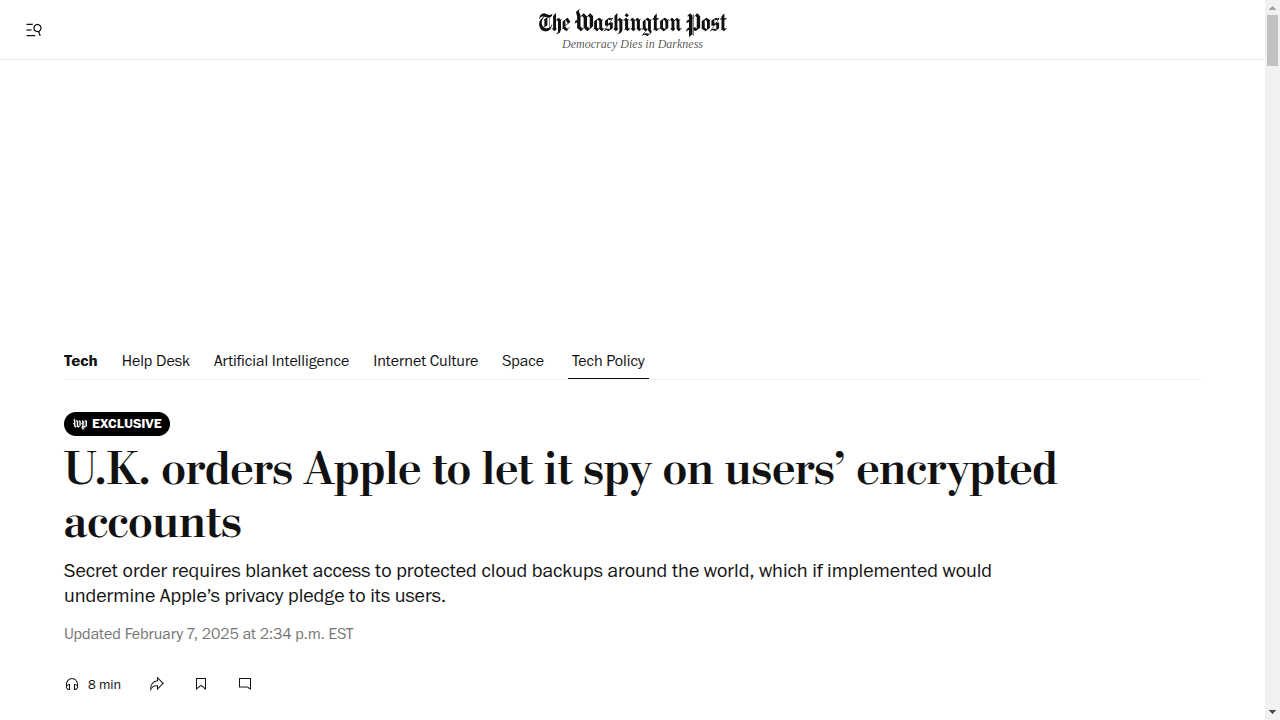
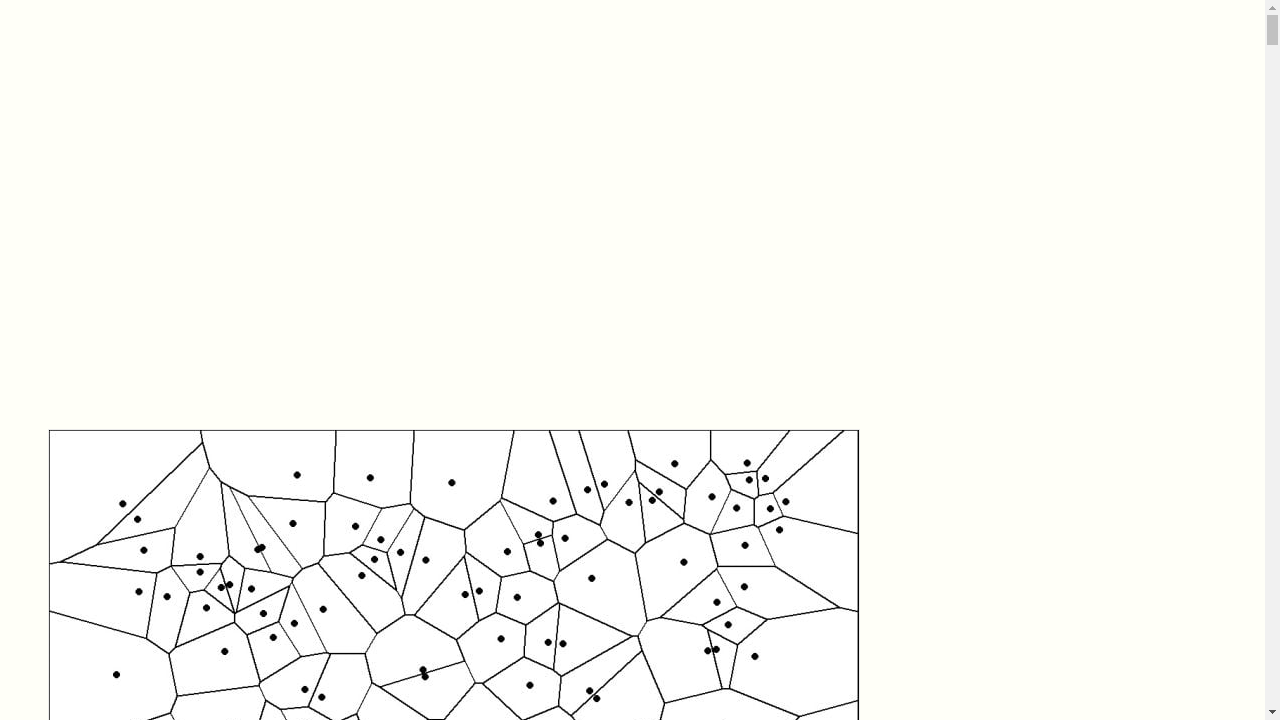
misc

diff --git a/src/mark.ts b/src/mark.ts
@@ -1,4 +1,6 @@
 import type { Page } from "playwright";
+import type { ElementHandle } from "playwright";
+
 export async function marker(page: Page) {
   // Find all potentially clickable elements
   const clickableElements = await page.$$(
@@ -15,7 +17,7 @@ export async function marker(page: Page) {
   );
 
   // Create a Map to store elements with their indices
-  const elementMap = new Map();
+  const elementMap: Map<number, ElementHandle> = new Map();
 
   // Assign index and color to each element
   for (let i = 0; i < clickableElements.length; i++) {
@@ -33,6 +35,10 @@ export async function marker(page: Page) {
         el.style.position = "relative";
       }
 
+      // Add padding to the element
+      el.style.padding = "12px";
+      el.style.margin = "24px";
+
       const overlay = document.createElement("div");
       overlay.style.position = "absolute";
       overlay.style.top = "0";
@@ -42,17 +48,20 @@ export async function marker(page: Page) {
       overlay.style.backgroundColor = randomColor;
       overlay.style.opacity = "0.2";
       overlay.style.pointerEvents = "none";
-      overlay.style.zIndex = "9999";
+      overlay.style.zIndex = "1";
 
       const numberLabel = document.createElement("span");
       numberLabel.textContent = number.toString();
       numberLabel.style.position = "absolute";
       numberLabel.style.top = "0";
-      numberLabel.style.right = "0";
-      numberLabel.style.background = "#fff";
-      numberLabel.style.padding = "2px 5px";
+      numberLabel.style.left = "0";
+      numberLabel.style.background = randomColor;
+      numberLabel.style.color = "#000";
+      numberLabel.style.padding = "1px 1px";
       numberLabel.style.pointerEvents = "none";
-      numberLabel.style.zIndex = "10000";
+      numberLabel.style.zIndex = "2";
+      numberLabel.style.fontSize = "10px";
+      numberLabel.style.fontWeight = "bold";
 
       el.appendChild(overlay);
       el.appendChild(numberLabel);

diff --git a/index.ts b/index.ts
@@ -1,7 +1,6 @@
 import { spawnBrowser } from "./src/browser";
 import { click } from "./src/click";
 import { marker } from "./src/mark";
-import { findAndClickInput, findAndClickLink } from "./src/temp";
 
 async function main() {
   const browser = await spawnBrowser();
@@ -11,11 +10,13 @@ async function main() {
 
   const markers = await marker(page);
 
-  // console.log(markers);
+  const element = markers.get(32);
 
-  // await page
-  //   .getByText("U.K. orders Apple to let it spy on users' encrypted accounts")
-  //   .click();
+  const boundingBox = await element!.boundingBox();
+
+  await click(page, boundingBox);
+
+  await page.screenshot({ path: "ss.png" });
 
   await page.waitForTimeout(50000);
 

diff --git a/README.md b/README.md
@@ -13,3 +13,5 @@ bun run index.ts
 ```
 
 This project was created using `bun init` in bun v1.2.2. [Bun](https://bun.sh) is a fast all-in-one JavaScript runtime.
+
+give me first 5 articles in the following format
